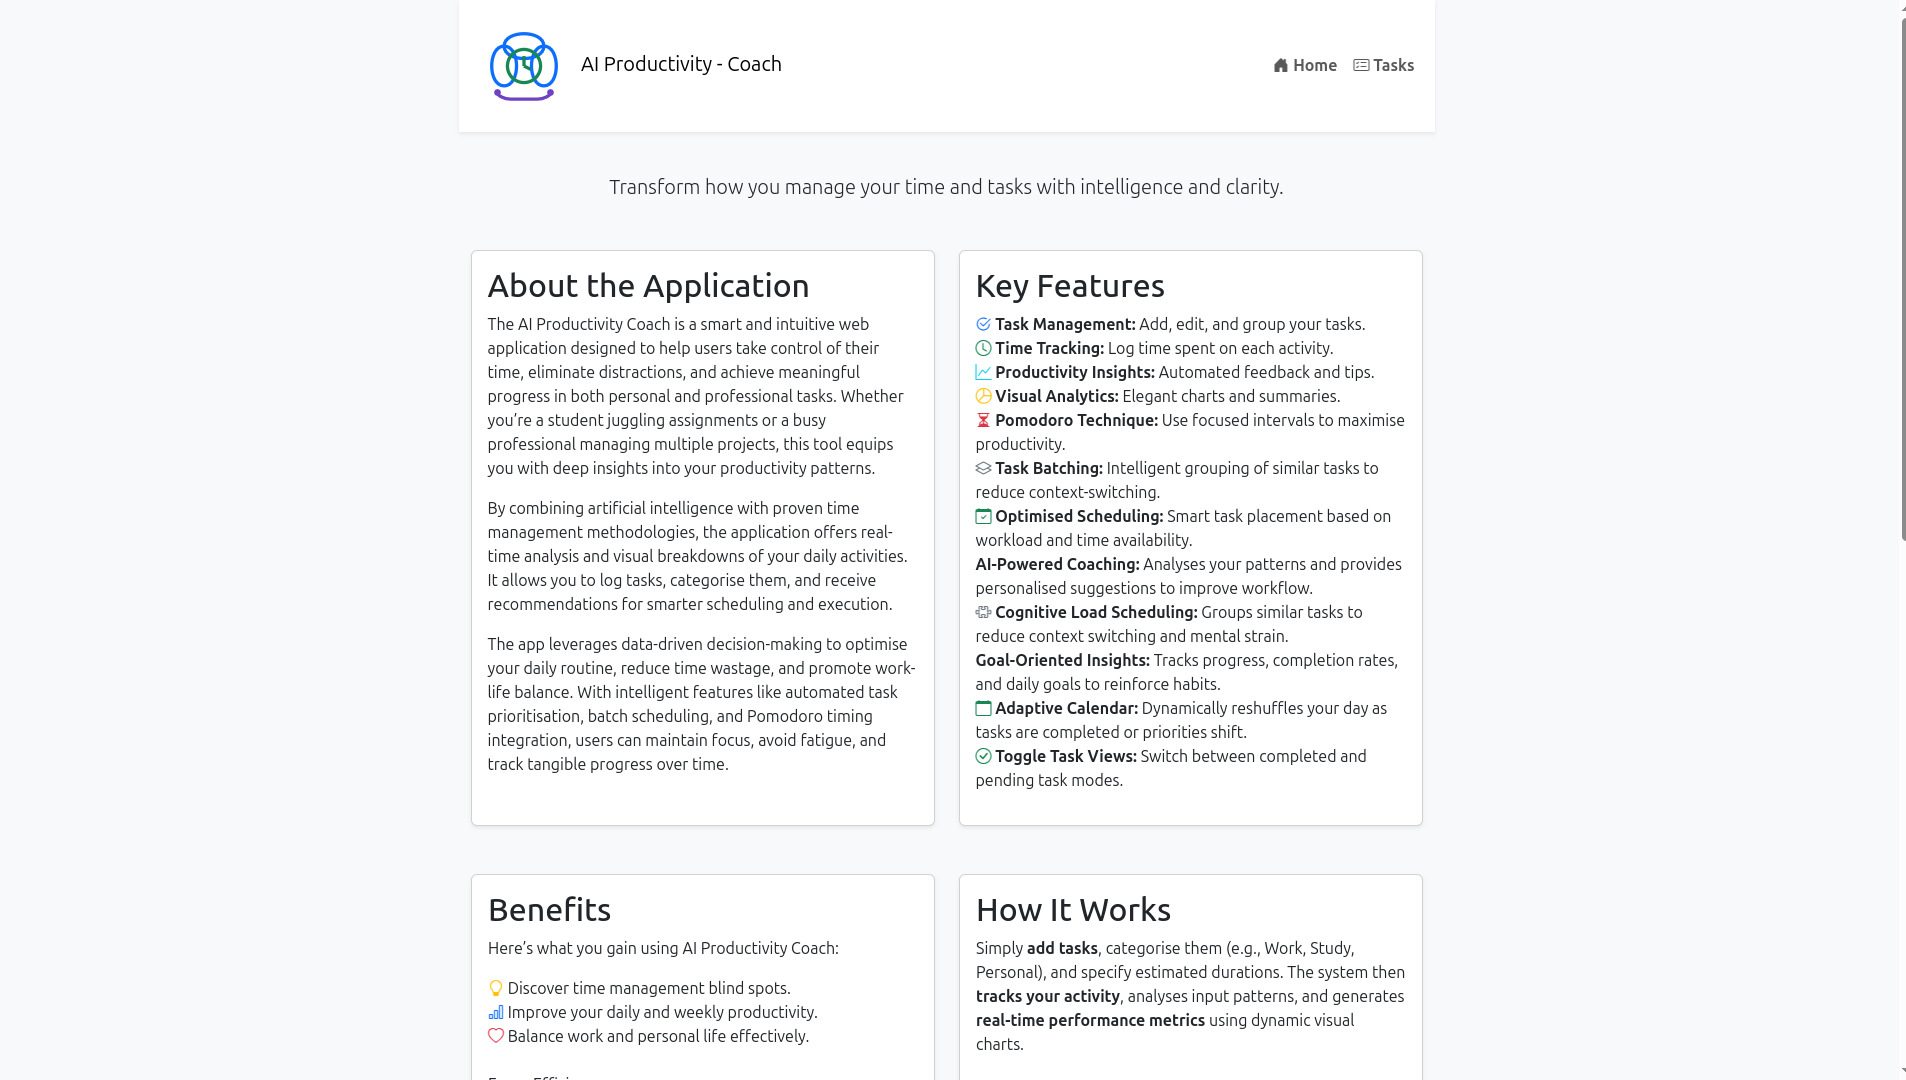
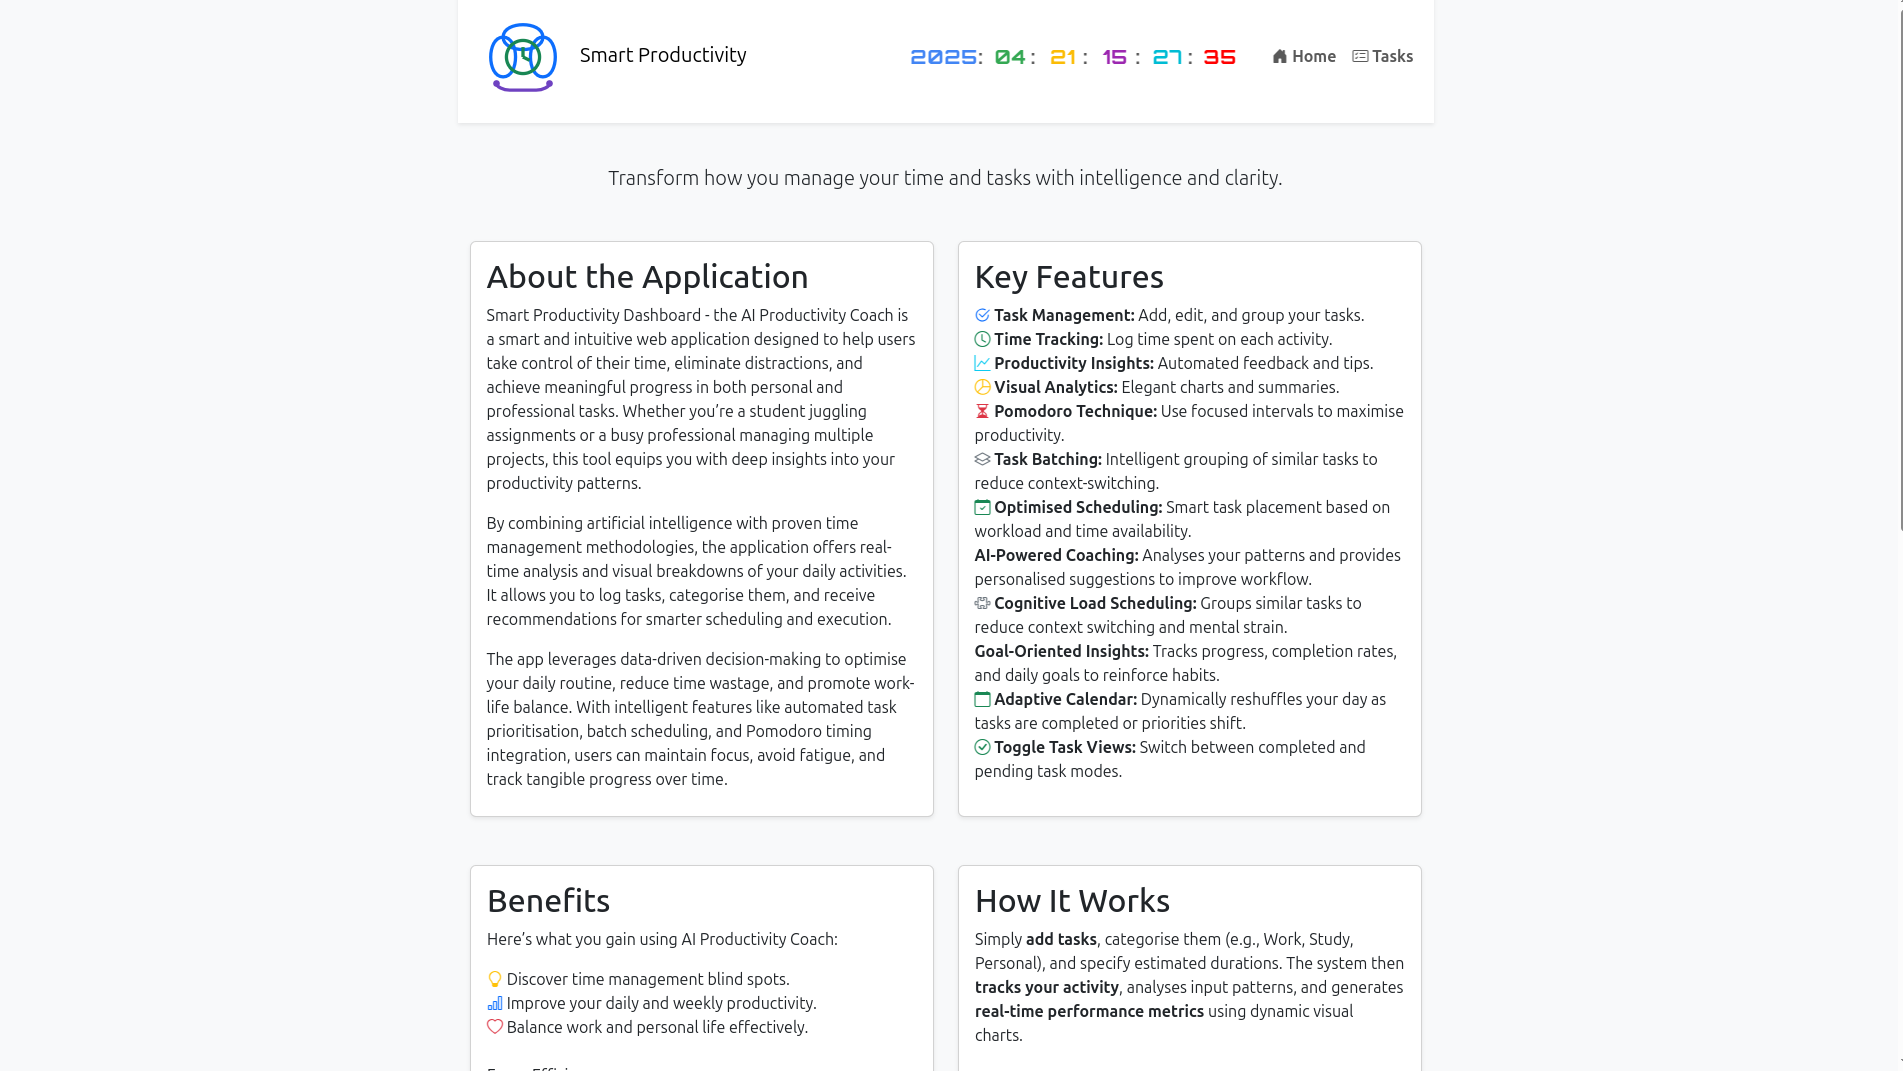
Frontend updates

diff --git a/app/templates/base.html b/app/templates/base.html
@@ -163,7 +163,7 @@
             <div class="container-fluid">
                 <a class="navbar-brand" href="#">
                     {% include 'include/icon.html' %}
-                    Smart Productivity - {% block page_header %}{% endblock %}
+                    Smart Productivity {% block page_header %}{% endblock %}
                 </a>
                 <button class="navbar-toggler" type="button" data-bs-toggle="collapse" data-bs-target="#navbarSupportedContent" 
                     aria-controls="navbarSupportedContent" aria-expanded="false" aria-label="Toggle navigation">

diff --git a/app/templates/index.html b/app/templates/index.html
@@ -1,7 +1,7 @@
 
 {% extends "base.html" %}
 
-{% block page_header %} Coach  {% endblock %}
+{% block page_header %}  {% endblock %}
 {% block content %}
 
 <div class="container py-3">
